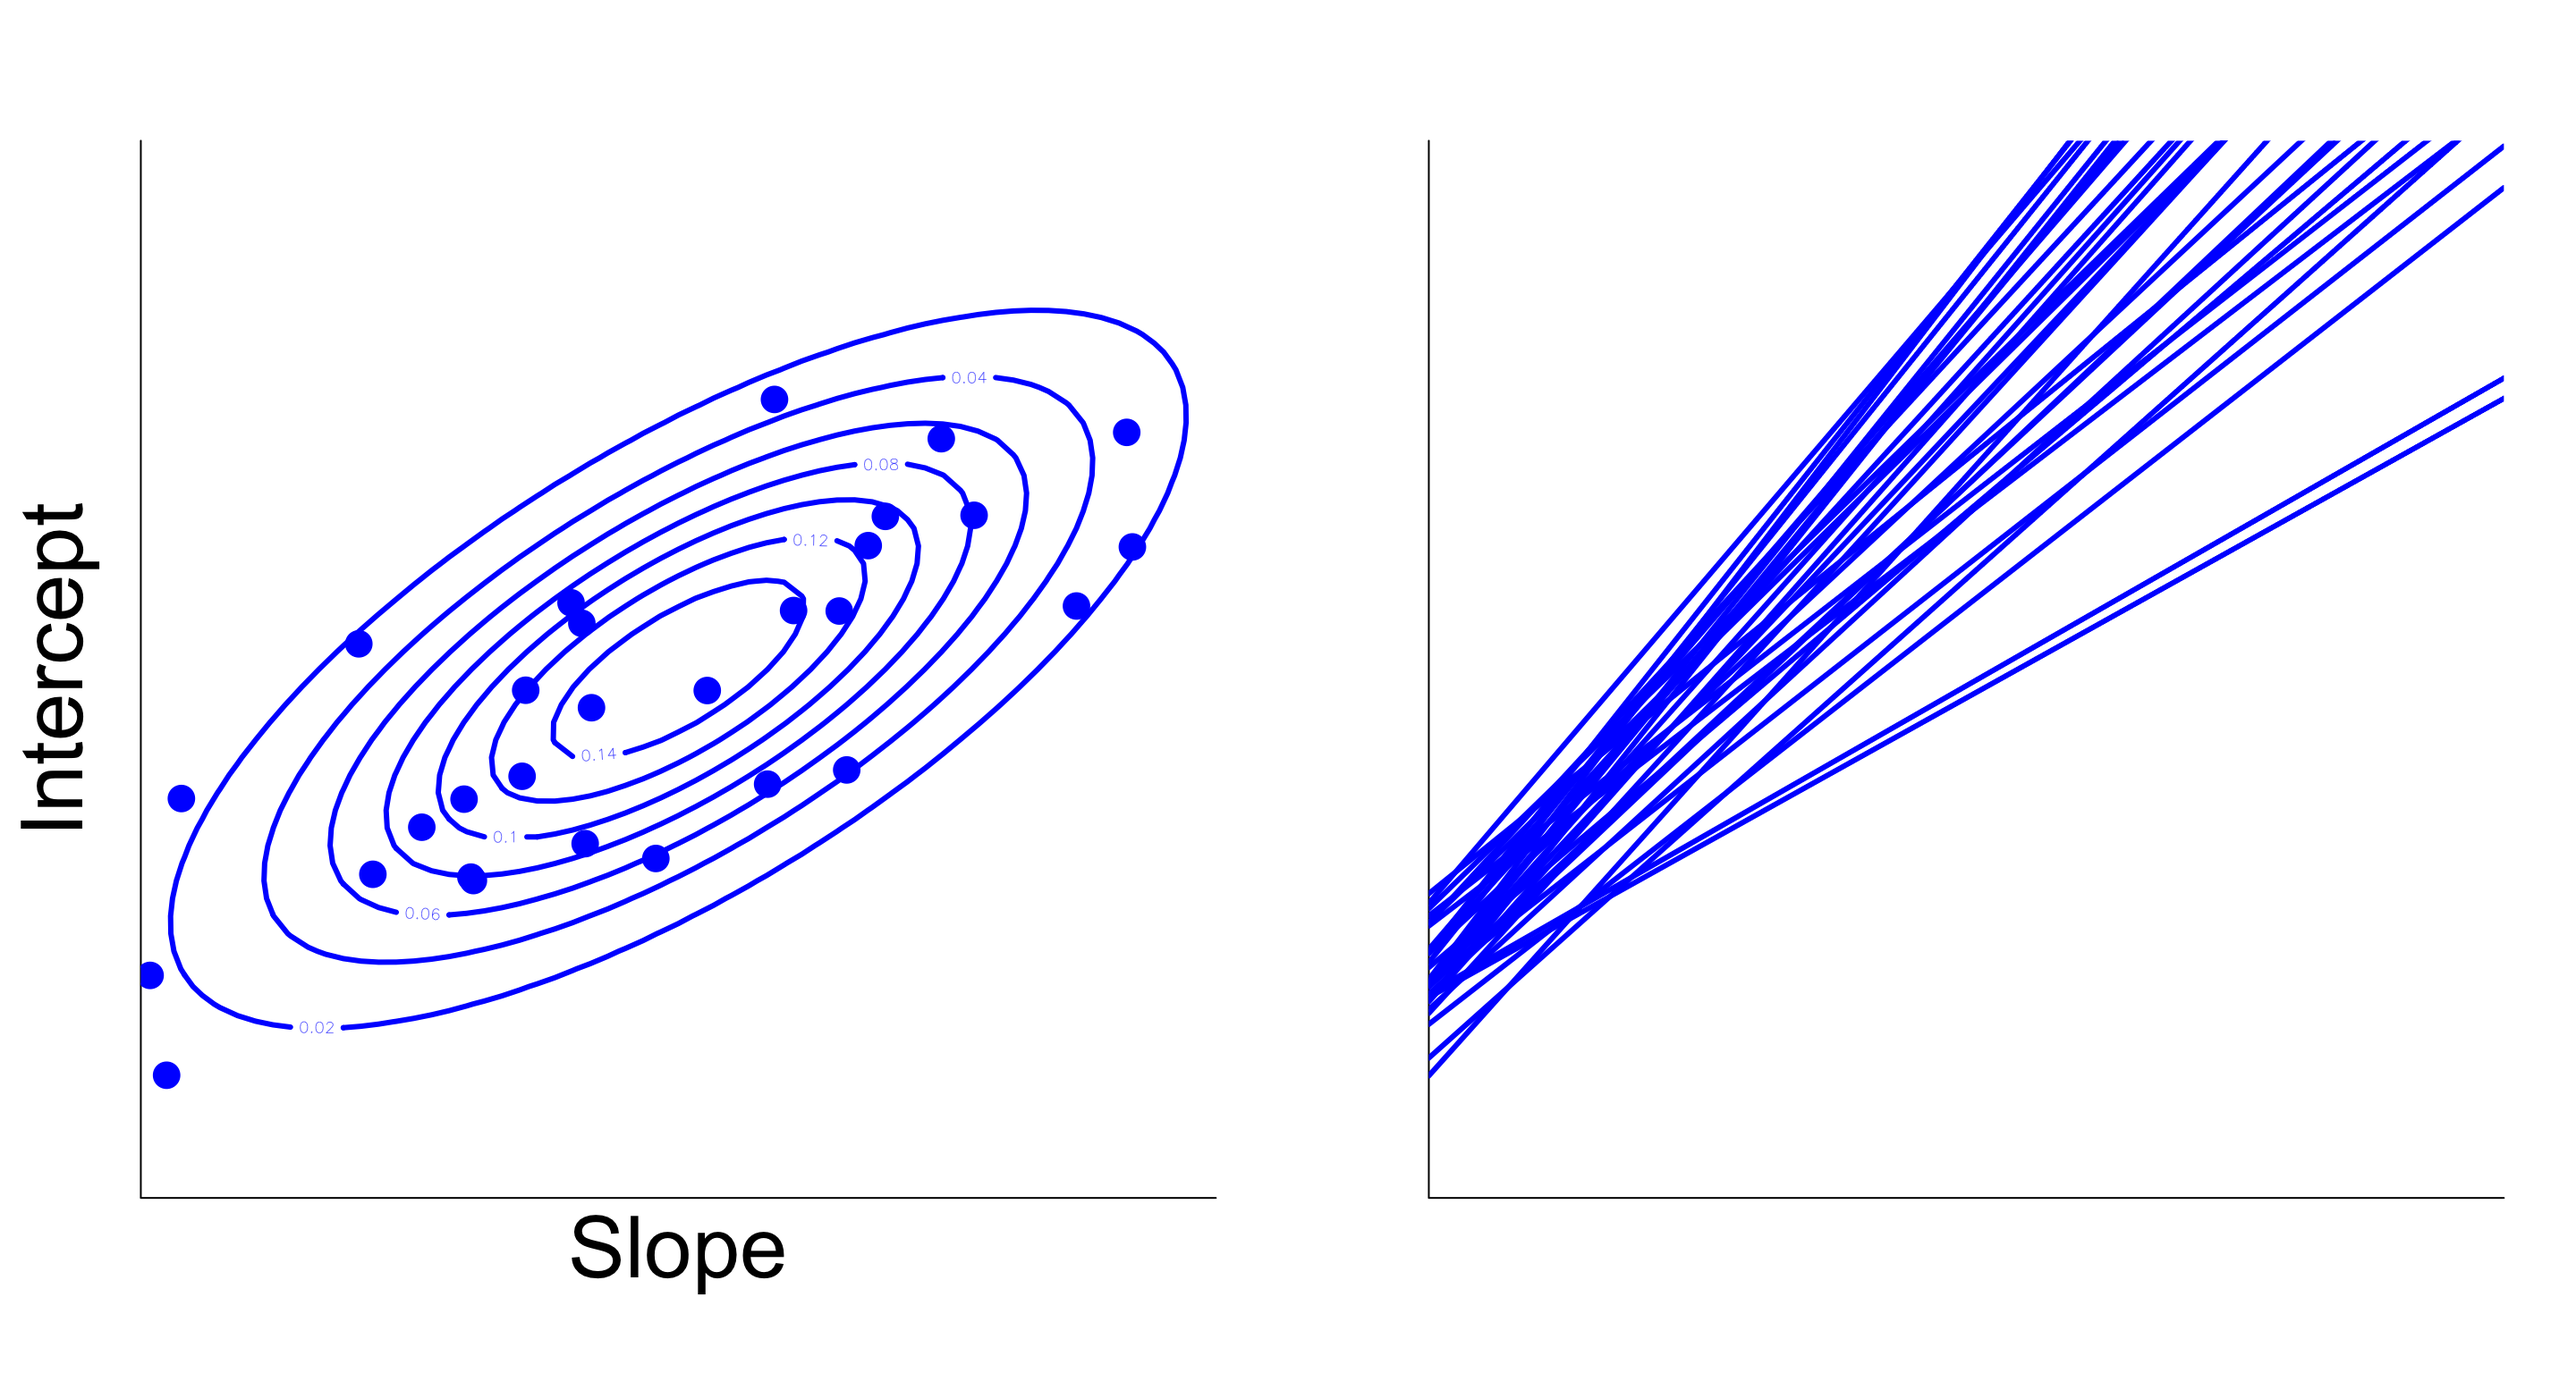
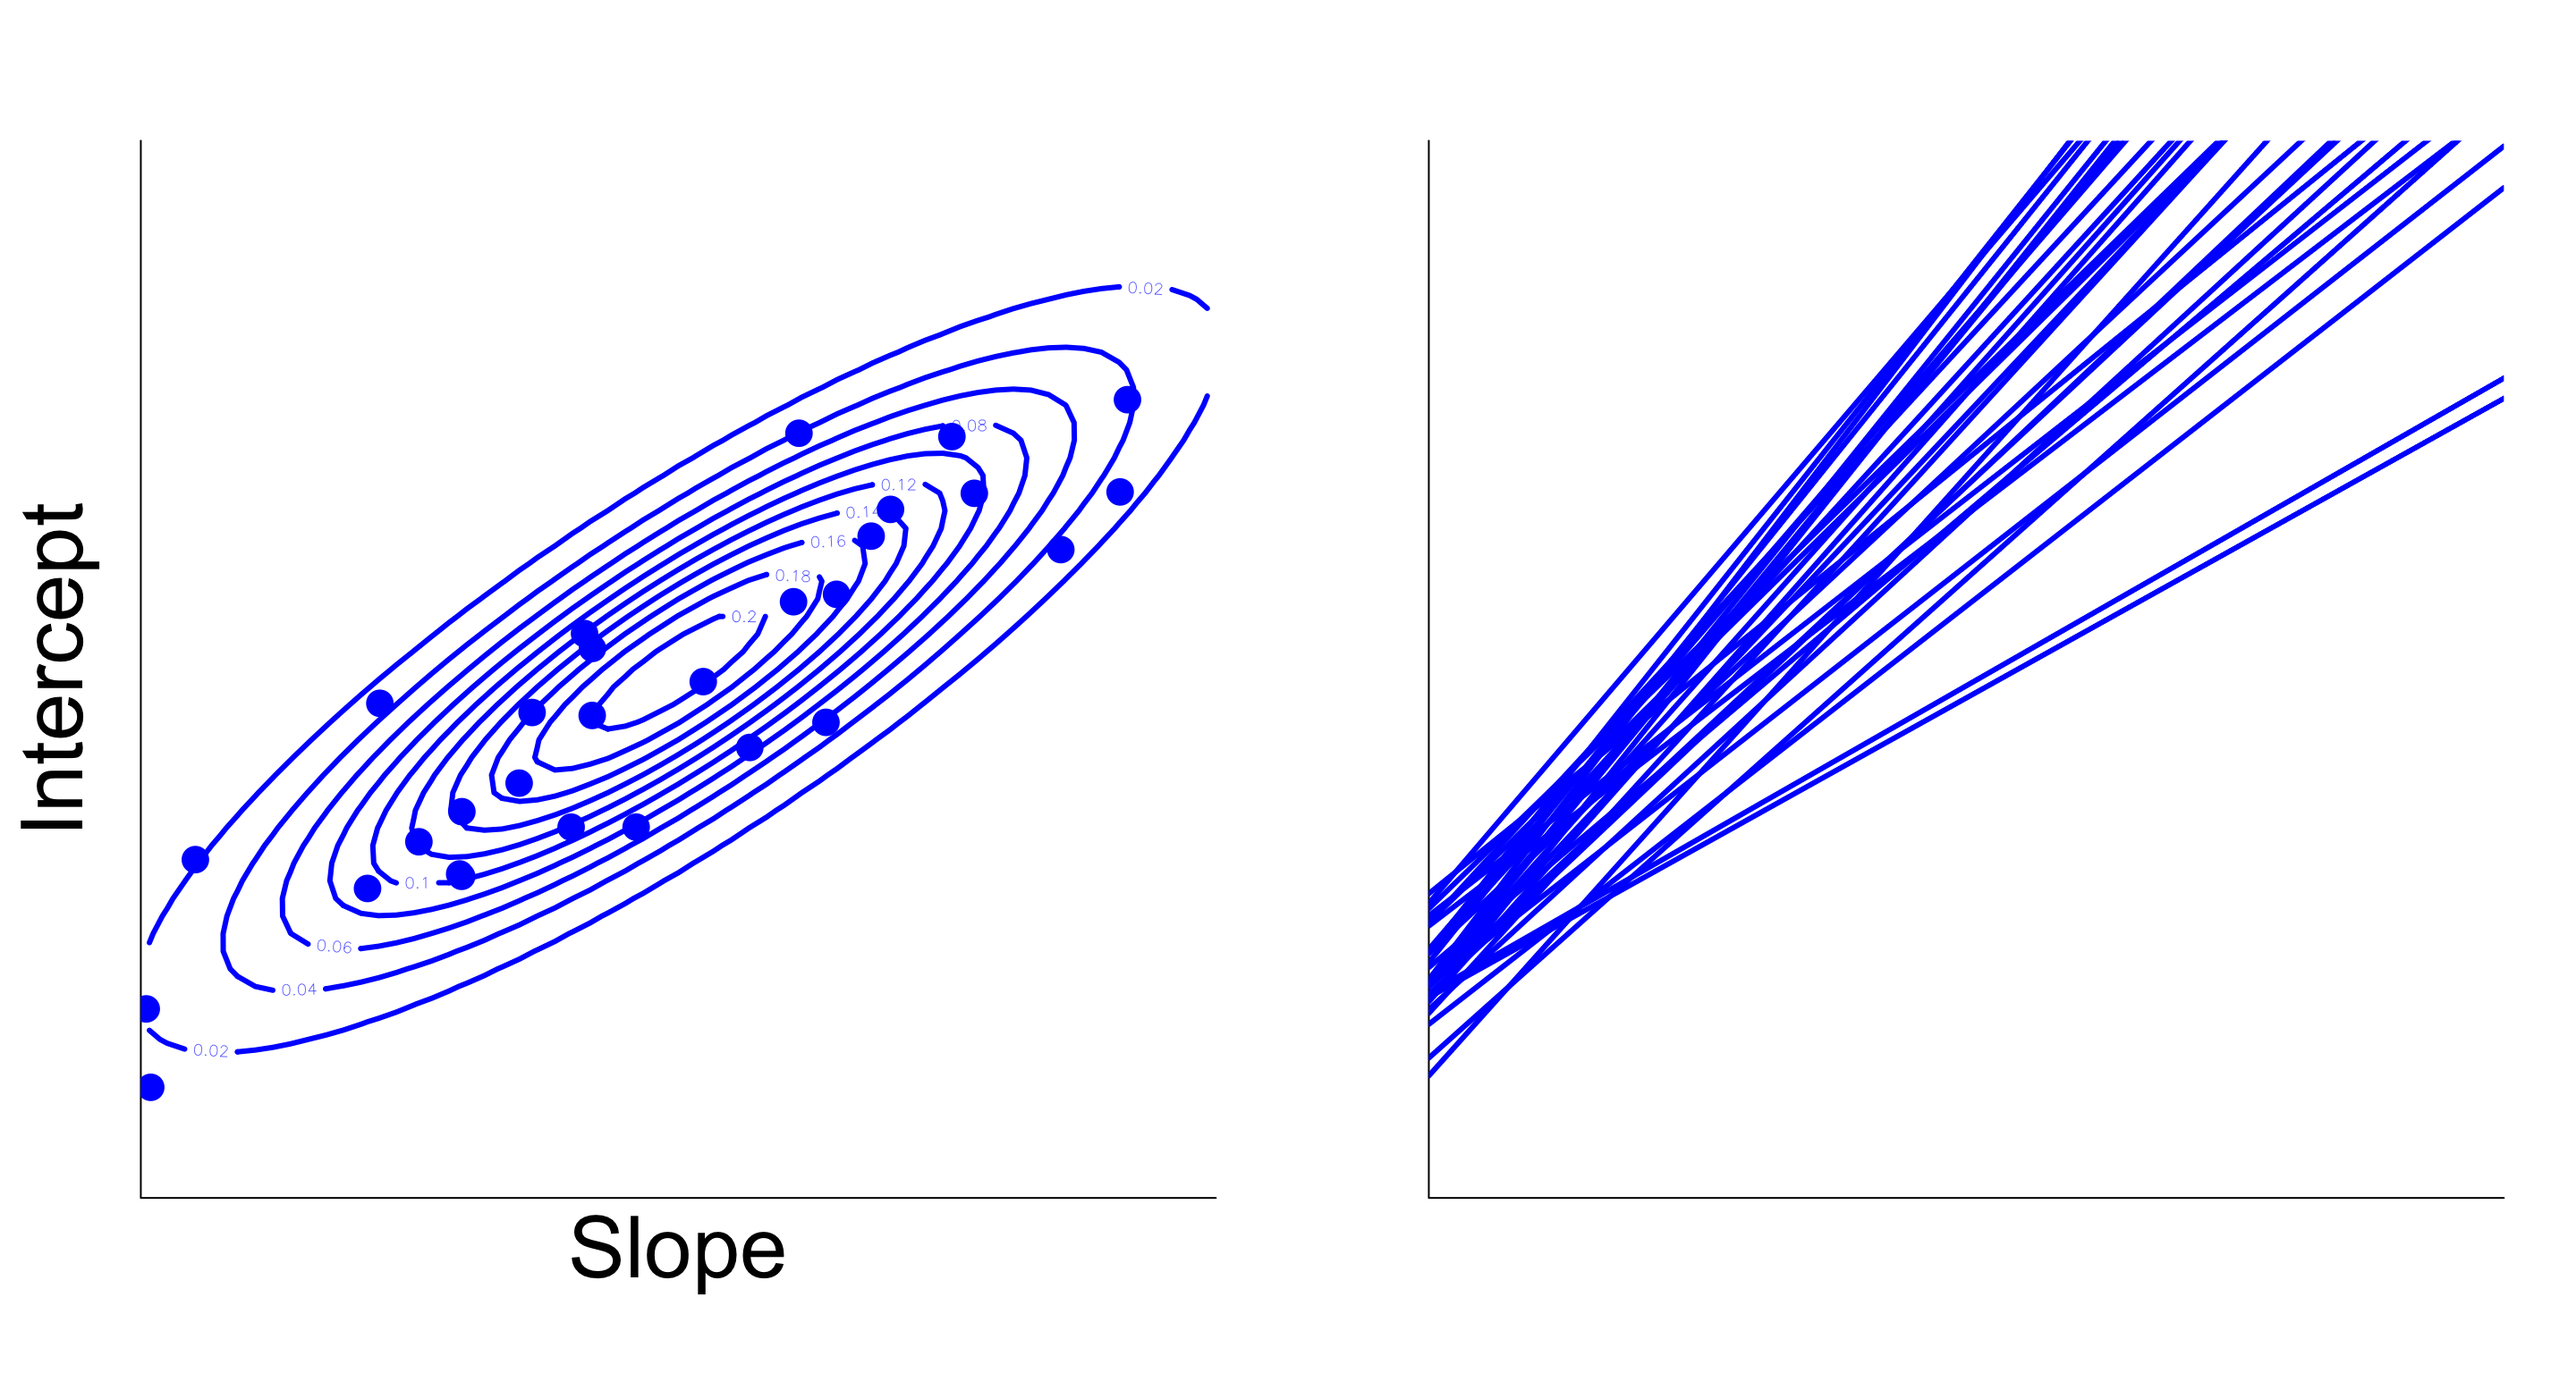
minor tweaks to Complex hierarchical model slides

Changed region(s): [[0.0312, 0.1875, 0.4688, 0.7812], [0.0312, 0.7812, 0.0625, 0.8125]]

diff --git a/docs/slides/08_Complex_hierarchical_model/index.html b/docs/slides/08_Complex_hierarchical_model/index.html
@@ -11,7 +11,7 @@
   <meta name="generator" content="quarto-1.5.57">
 
   <meta name="author" content="Guillaume Blanchet – Andrew MacDonald">
-  <meta name="dcterms.date" content="2025-05-07">
+  <meta name="dcterms.date" content="2025-05-08">
   <title>Modèles hiérarchiques pour les sciences de la vie – Complex hierarchical models</title>
   <meta name="apple-mobile-web-app-capable" content="yes">
   <meta name="apple-mobile-web-app-status-bar-style" content="black-translucent">
@@ -337,7 +337,7 @@ Guillaume Blanchet – Andrew MacDonald
 </div>
 </div>
 
-  <p class="date">2025-05-07</p>
+  <p class="date">2025-05-08</p>
 </section>
 <section id="hierarchical-model-structure-so-far" class="slide level2">
 <h2>Hierarchical model structure so far</h2>
@@ -543,23 +543,11 @@ Guillaume Blanchet – Andrew MacDonald
 <section id="a-small-step-back" class="slide level2">
 <h2>A small step back</h2>
 <div class="fragment">
-<div style="font-size: 0.7em">
-<p>The structure of the hierarchy discussed so far were “less complex” in the sense that</p>
+<div style="font-size: 0.8em">
+<p>The structure of the hierarchy discussed so far were “mildly complex” in the sense that</p>
 </div>
-</div>
-<div class="fragment">
-<div style="font-size: 0.7em">
-<ul>
-<li>A single variance parameter is estimated</li>
-</ul>
-<p><span class="math display">\[\sigma^2_{f}\]</span></p>
-</div>
-</div>
-<div class="fragment">
-<div style="font-size: 0.7em">
-<ul>
-<li>Multiple independent variance parameters are estimated</li>
-</ul>
+<div style="font-size: 0.8em">
+<p>Even if we estimate parameters of a covariance matrix, they are uncorrelated.</p>
 <p><span class="math display">\[
 \begin{bmatrix}
   \sigma^2_f &amp; 0\\
@@ -569,13 +557,13 @@ Guillaume Blanchet – Andrew MacDonald
 </div>
 </div>
 <div class="fragment">
-<div style="font-size: 0.7em">
+<div style="font-size: 0.8em">
 <p>In Bayesian, having uncorrelated variances allows us to sample variance parameters independently even with multiple factors, which is computationally more efficient.</p>
 </div>
 </div>
 <div class="fragment">
-<div style="font-size: 0.7em">
-<p>From this point on, we will look at more complex covariance structures where the hierarchical levels are <strong>not</strong> independent from each other.</p>
+<div style="font-size: 0.8em">
+<p>From this point on, we will look at even more complex covariance structures where the hierarchical levels are <strong>not</strong> independent from each other.</p>
 </div>
 </div>
 </section>
